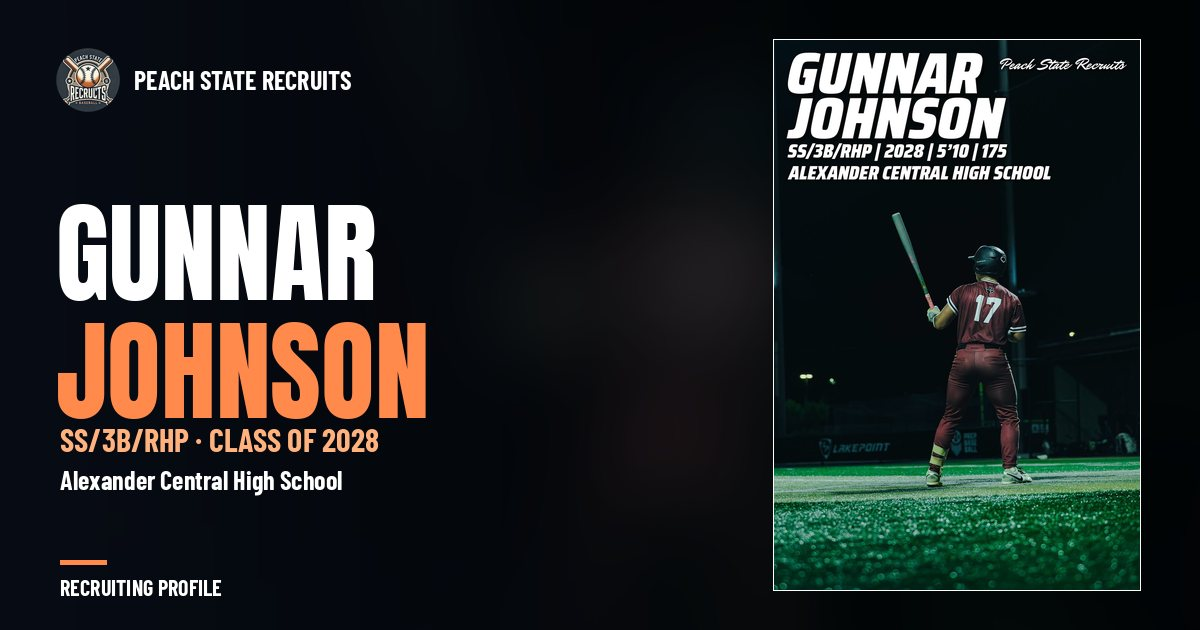
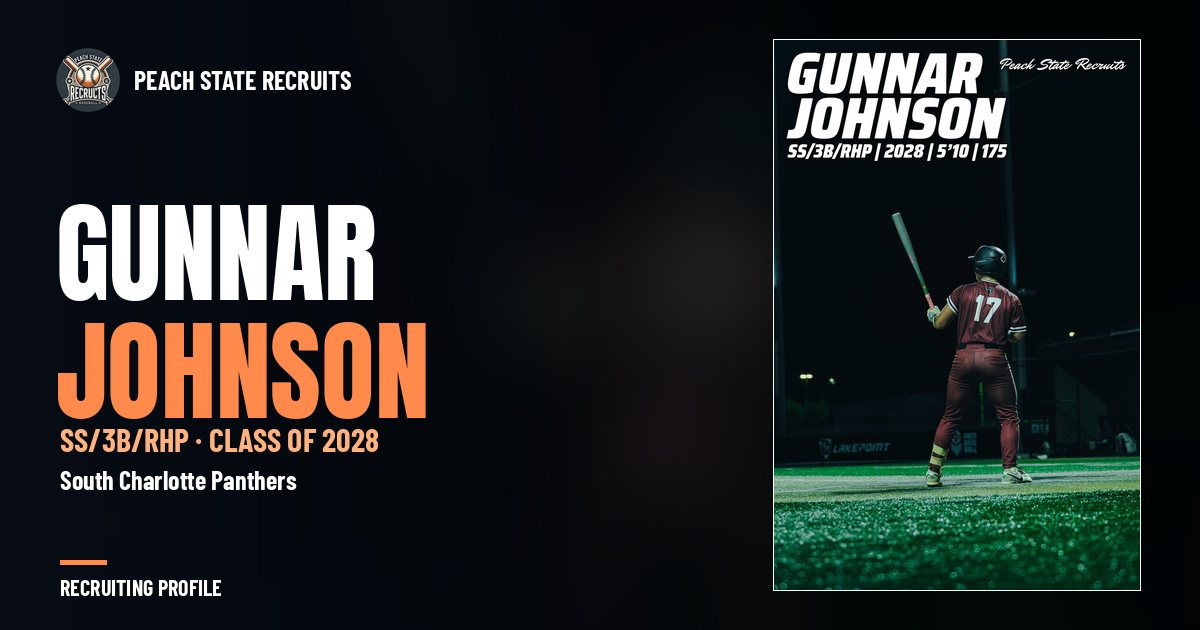
Remove Gunnar Johnson's high school and refresh his cover
The school field is now empty in the profile data, the generated stub,
and the write-up. The new cover is optimized as gunnar-johnson-v2.jpg so
cached copies of the old image are not served. Clips are unchanged.

Changed region(s): [[0.6475, 0.2413, 0.8942, 0.3016], [0.0308, 0.7238, 0.3083, 0.7841]]

diff --git a/player/gunnar-johnson/index.html b/player/gunnar-johnson/index.html
@@ -5,21 +5,21 @@
 <base href="../../">
 <meta name="viewport" content="width=device-width, initial-scale=1, viewport-fit=cover">
 <title>Gunnar Johnson | Baseball · SS/3B/RHP · Class of 2028 | Peach State Recruits</title>
-<meta name="description" content="Gunnar Johnson (SS/3B/RHP, Class of 2028) from Alexander Central High School, Hickory, North Carolina. Baseball highlight video, measurables and scouting report on Peach State Recruits.">
+<meta name="description" content="Gunnar Johnson (SS/3B/RHP, Class of 2028) from South Charlotte Panthers, Hickory, North Carolina. Baseball highlight video, measurables and scouting report on Peach State Recruits.">
 <link rel="canonical" href="https://dawsonjones1010-ux.github.io/peach-state-recruits/player/gunnar-johnson/">
 <meta property="og:title" content="Gunnar Johnson | Peach State Recruits">
-<meta property="og:description" content="GUNNAR JOHNSON IS A TOP TIER INFIELDER🔥📈 Baseball, SS/3B/RHP, Class of 2028, Alexander Central High School. Highlights, measurables and scouting report.">
+<meta property="og:description" content="GUNNAR JOHNSON IS A TOP TIER INFIELDER🔥📈 Baseball, SS/3B/RHP, Class of 2028, South Charlotte Panthers. Highlights, measurables and scouting report.">
 <meta property="og:url" content="https://dawsonjones1010-ux.github.io/peach-state-recruits/player/gunnar-johnson/">
 <meta property="og:site_name" content="Peach State Recruits">
-<meta property="og:image" content="https://dawsonjones1010-ux.github.io/peach-state-recruits/images/og/gunnar-johnson.jpg">
+<meta property="og:image" content="https://dawsonjones1010-ux.github.io/peach-state-recruits/images/og/gunnar-johnson-v2.jpg">
 <meta property="og:image:width" content="1200"><meta property="og:image:height" content="630">
 <meta property="og:image:alt" content="Gunnar Johnson feature cover">
 <meta property="og:type" content="profile">
 <meta name="twitter:card" content="summary_large_image">
 <meta name="twitter:title" content="Gunnar Johnson | Peach State Recruits">
-<meta name="twitter:description" content="GUNNAR JOHNSON IS A TOP TIER INFIELDER🔥📈 Baseball, SS/3B/RHP, Class of 2028, Alexander Central High School. Highlights, measurables and scouting report.">
-<meta name="twitter:image" content="https://dawsonjones1010-ux.github.io/peach-state-recruits/images/og/gunnar-johnson.jpg">
-<script type="application/ld+json">{"@context": "https://schema.org", "@type": "ProfilePage", "url": "https://dawsonjones1010-ux.github.io/peach-state-recruits/player/gunnar-johnson/", "mainEntity": {"@type": "Person", "name": "Gunnar Johnson", "url": "https://dawsonjones1010-ux.github.io/peach-state-recruits/player/gunnar-johnson/", "image": "https://dawsonjones1010-ux.github.io/peach-state-recruits/images/og/gunnar-johnson.jpg", "affiliation": {"@type": "EducationalOrganization", "name": "Alexander Central High School"}, "homeLocation": {"@type": "Place", "name": "Hickory, North Carolina"}, "description": "Baseball, SS/3B/RHP, Class of 2028"}}</script>
+<meta name="twitter:description" content="GUNNAR JOHNSON IS A TOP TIER INFIELDER🔥📈 Baseball, SS/3B/RHP, Class of 2028, South Charlotte Panthers. Highlights, measurables and scouting report.">
+<meta name="twitter:image" content="https://dawsonjones1010-ux.github.io/peach-state-recruits/images/og/gunnar-johnson-v2.jpg">
+<script type="application/ld+json">{"@context": "https://schema.org", "@type": "ProfilePage", "url": "https://dawsonjones1010-ux.github.io/peach-state-recruits/player/gunnar-johnson/", "mainEntity": {"@type": "Person", "name": "Gunnar Johnson", "url": "https://dawsonjones1010-ux.github.io/peach-state-recruits/player/gunnar-johnson/", "image": "https://dawsonjones1010-ux.github.io/peach-state-recruits/images/og/gunnar-johnson-v2.jpg", "homeLocation": {"@type": "Place", "name": "Hickory, North Carolina"}, "description": "Baseball, SS/3B/RHP, Class of 2028"}}</script>
 <link rel="icon" type="image/png" sizes="32x32" href="favicon.png">
 <link rel="icon" type="image/png" sizes="16x16" href="favicon-16.png">
 <link rel="icon" sizes="any" href="favicon.ico">

diff --git a/tools/build_share.py b/tools/build_share.py
@@ -11,7 +11,21 @@ if argv and argv[0] == "--root" and len(argv) >= 2:
 elif os.environ.get("PSR_ROOT"):
     os.chdir(os.path.abspath(os.environ["PSR_ROOT"]))
 slugs = argv or ["eduardo-vazquez", "chase-doyle", "cole-corey"]
-covers = [Image.open(f"images/players/{s}.jpg").convert("RGB") for s in slugs if os.path.exists(f"images/players/{s}.jpg")]
+def _cover_path(slug):
+    default = f"images/players/{slug}.jpg"
+    if os.path.exists(default):
+        return default
+    try:
+        import json
+        for pl in json.load(open("players.json", encoding="utf-8")):
+            if pl.get("slug") == slug and pl.get("coverImage"):
+                c = str(pl["coverImage"]).split("?")[0]
+                if os.path.exists(c):
+                    return c
+    except Exception:
+        pass
+    return ""
+covers = [Image.open(p).convert("RGB") for s in slugs if (p := _cover_path(s))]
 A = lambda n: ImageFont.truetype("tools/fonts/Anton.ttf", n)
 B = lambda n: ImageFont.truetype("tools/fonts/Barlow.ttf", n)
 peach, ink = (255, 138, 76), (7, 11, 20)
